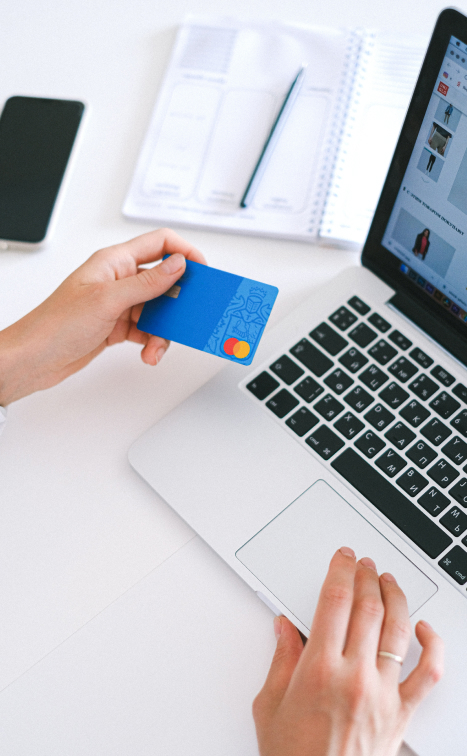
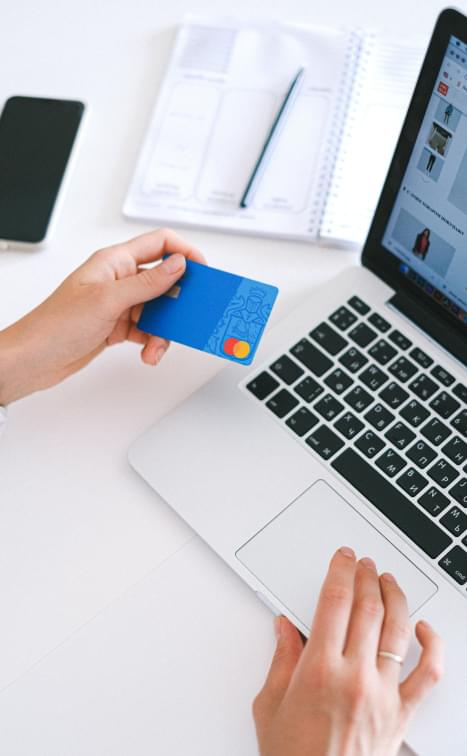
Added: change img tag to picture/source

diff --git a/src/index.html b/src/index.html
@@ -16,7 +16,10 @@
           <div class="header__body">
             <a href="#" class="header__logo logo-header">
               <div class="logo-header__image">
-                <img src="img/header/header-logo.png" alt="logo" />
+                <picture>
+                  <source srcset='img/header/header-logo.webp' type='image/webp'>
+                  <img src='img/header/header-logo.png' alt='logo'>
+                </picture>
               </div>
               <span class="logo-header__name">WeFinance</span>
             </a>
@@ -213,10 +216,16 @@
             </div>
             <div class="features__images">
               <div class="features__image-card _ibg">
-                <img src="img/features/card.jpg" alt="credit card" />
+                <picture>
+                  <source srcset='img/features/card.webp' type='image/webp'>
+                  <img src='img/features/card.jpg' alt='credit card'>
+                </picture>
               </div>
               <div class="features__image-dots">
-                <img src="img/features/dots.png" alt="dots" />
+                <picture>
+                  <source srcset='img/features/dots.webp' type='image/webp'>
+                  <img src='img/features/dots.png' alt='dots'>
+                </picture>
               </div>
             </div>
           </div>
@@ -283,7 +292,10 @@
                 <div class="slider-news__wrapper swiper-wrapper">
                   <div class="slider-news__slide swiper-slide">
                     <div class="slider-news__image _ibg">
-                      <img src="img/news/people.jpg" alt="people" />
+                      <picture>
+                        <source srcset='img/news/people.webp' type='image/webp'>
+                        <img src='img/news/people.jpg' alt='people'>
+                      </picture>
                     </div>
                     <div class="slider-news__content">
                       <span class="slider-news__date">January 01, 2021</span>
@@ -299,7 +311,10 @@
                   </div>
                   <div class="slider-news__slide swiper-slide">
                     <div class="slider-news__image _ibg">
-                      <img src="img/news/people.jpg" alt="people" />
+                      <picture>
+                        <source srcset='img/news/people.webp' type='image/webp'>
+                        <img src='img/news/people.jpg' alt='people'>
+                      </picture>
                     </div>
                     <div class="slider-news__content">
                       <span class="slider-news__date">January 01, 2021</span>
@@ -315,7 +330,10 @@
                   </div>
                   <div class="slider-news__slide swiper-slide">
                     <div class="slider-news__image _ibg">
-                      <img src="img/news/people.jpg" alt="people" />
+                      <picture>
+                        <source srcset='img/news/people.webp' type='image/webp'>
+                        <img src='img/news/people.jpg' alt='people'>
+                      </picture>
                     </div>
                     <div class="slider-news__content">
                       <span class="slider-news__date">January 01, 2021</span>
@@ -331,7 +349,10 @@
                   </div>
                   <div class="slider-news__slide swiper-slide">
                     <div class="slider-news__image _ibg">
-                      <img src="img/news/people.jpg" alt="people" />
+                      <picture>
+                        <source srcset='img/news/people.webp' type='image/webp'>
+                        <img src='img/news/people.jpg' alt='people'>
+                      </picture>
                     </div>
                     <div class="slider-news__content">
                       <span class="slider-news__date">January 01, 2021</span>
@@ -380,7 +401,10 @@
         <div class="footer__top">
           <div class="footer__logo logo-footer">
             <a href="#" class="logo-footer__main">
-              <img src="img/footer/footer-logo.png" alt="logo" class="logo-footer__image" />
+              <picture>
+                <source srcset='img/footer/footer-logo.webp' type='image/webp'>
+                <img src='img/footer/footer-logo.png' alt='footer logo'>
+              </picture>
               <span class="logo-footer__name">WeFinance</span>
             </a>
             <p class="logo-footer__text">
@@ -423,13 +447,22 @@
           </div>
           <div class="footer__social">
             <a href="https://www.facebook.com/" class="footer__social-link footer__social-link_facebook">
-              <img src="img/footer/facebook.png" alt="facebook" />
+              <picture>
+                <source srcset='img/footer/facebook.webp' type='image/webp'>
+                <img src='img/footer/facebook.png' alt='facebook'>
+              </picture>
             </a>
             <a href="https://www.instagram.com/" class="footer__social-link footer__social-link_instagram">
-              <img src="img/footer/instagram.png" alt="instagram" />
+              <picture>
+                <source srcset='img/footer/instagram.webp' type='image/webp'>
+                <img src='img/footer/instagram.png' alt='instagram'>
+              </picture>
             </a>
-            <a href="https://twitter.com/" class="footer__social-link footer__social-link_twitter"><img
-                src="img/footer/twitter.png" alt="twitter" />
+            <a href="https://twitter.com/" class="footer__social-link footer__social-link_twitter">
+              <picture>
+                <source srcset='img/footer/twitter.webp' type='image/webp'>
+                <img src='img/footer/twitter.png' alt='twitter'>
+              </picture>
             </a>
           </div>
         </div>

diff --git a/src/scss/blocks/footer.scss b/src/scss/blocks/footer.scss
@@ -128,18 +128,13 @@
     }
   }
 
-  // .logo-footer__image
-
-  &__image {
-    margin-right: 18px;
-  }
-
   // .logo-footer__name
 
   &__name {
     font-weight: 700;
     font-size: 22px;
     line-height: math.div(33px, 22px) * 100%;
+    margin: 0 0 0 18px;
   }
 
   // .logo-footer__text

diff --git a/webpack.config.js b/webpack.config.js
@@ -161,7 +161,7 @@ module.exports = {
         test: /\.(?:|ico|png|svg|jpeg|jpg|webp|gif)$/i,
         type: 'asset/resource',
         generator: {
-          filename: `./img/${filename('[ext]')}`,
+          filename: `[path]${filename('[ext]')}`,
         },
       },
       {
